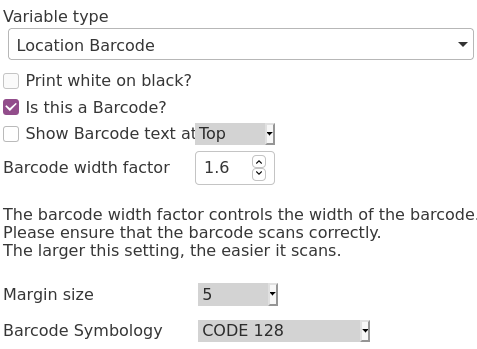
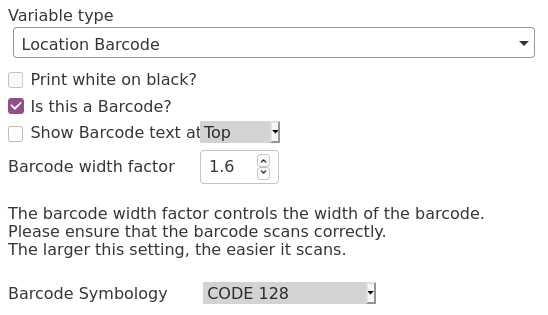
Undo resize of text, Remove barcode margin, avoid corrupting an image

Changed region(s): [[0.0, 0.0286, 1.0, 1.0]]

diff --git a/public/js/crossbeams-label-designer.js b/public/js/crossbeams-label-designer.js
@@ -260,7 +260,10 @@ const LabelDesigner = (function LabelDesigner() { // eslint-disable-line max-cla
 
   class LdImage extends LdShape {
     generate(opts = {}) {
-      // TODO: return null if no imagesrc...
+      // Do not add an image if the input is corrupt...
+      if (!opts.imageSource) {
+        return null;
+      }
       let startX;
       let startY;
       let startW;
@@ -611,7 +614,6 @@ const LabelDesigner = (function LabelDesigner() { // eslint-disable-line max-cla
         barcodeText: optAttrs.barcodeText || false,
         barcodeTop: optAttrs.barcodeTop || 'true',
         barcodeWidthFactor: optAttrs.barcodeWidthFactor || 1.5,
-        barcodeMargin: optAttrs.barcodeMargin || 5,
         barcodeSymbology: optAttrs.barcodeSymbology || 'CODE_128',
         staticValue: optAttrs.staticValue || null,
       };
@@ -720,6 +722,11 @@ const LabelDesigner = (function LabelDesigner() { // eslint-disable-line max-cla
 
   class LdText extends LdShape {
     generate(opts = {}) {
+      let startX;
+      let startY;
+      let startW;
+      let startH;
+
       this.shape = new Konva.Text({
         name: 'textBox',
         x: this.x,
@@ -750,6 +757,66 @@ const LabelDesigner = (function LabelDesigner() { // eslint-disable-line max-cla
           scaleY: 1,
         });
         ldState.changesMade = true;
+      });
+
+      this.shape.on('transformstart', () => {
+        startX = this.shape.x();
+        startY = this.shape.y();
+        startW = this.shape.width();
+        startH = this.shape.height();
+      });
+      this.shape.on('transformend', () => {
+        if (ldState.selectedMultiple.length > 0) {
+          return;
+        }
+        const change = {
+          x: Math.round(this.shape.x()) - Math.round(startX),
+          y: Math.round(this.shape.y()) - Math.round(startY),
+          width: Math.round(this.shape.width() - startW),
+          height: Math.round(this.shape.height() - startH),
+        };
+
+        UndoEngine.addCommand({
+          shapeId: this.shape._id, // eslint-disable-line no-underscore-dangle
+          action: 'resize',
+          current: change,
+          previous: {
+            x: change.x * -1,
+            y: change.y * -1,
+            width: change.width * -1,
+            height: change.height * -1,
+          },
+          executeUndo() {
+            const item = getShapeById(this.shapeId);
+
+            if (this.previous.x !== 0 || this.previous.y !== 0) {
+              item.move({ x: this.previous.x, y: this.previous.y });
+            }
+            if (this.previous.width !== 0) {
+              adjustWidth(item, this.previous.width);
+            }
+            if (this.previous.height !== 0) {
+              adjustHeight(item, this.previous.height);
+            }
+            ldState.stage.draw();
+            console.log('UNDO', this.shapeId, this.previous);
+          },
+          executeRedo() {
+            const item = getShapeById(this.shapeId);
+
+            if (this.current.x !== 0 || this.current.y !== 0) {
+              item.move({ x: this.current.x, y: this.current.y });
+            }
+            if (this.current.width !== 0) {
+              adjustWidth(item, this.current.width);
+            }
+            if (this.current.height !== 0) {
+              adjustHeight(item, this.current.height);
+            }
+            ldState.stage.draw();
+            console.log('REDO', this.shapeId, this.current);
+          },
+        });
       });
       return this.shape;
     }
@@ -880,7 +947,9 @@ const LabelDesigner = (function LabelDesigner() { // eslint-disable-line max-cla
       if (this.elem.name === 'image') {
         shape = new LdImage(this.elem.x + offset, this.elem.y + offset, this.elem.width, this.elem.height);
         item = shape.generate(this.elem);
-        ldState.layer.add(item);
+        if (item !== null) {
+          ldState.layer.add(item);
+        }
       }
       if (this.elem.name === 'rect') {
         shape = new LdRect(this.elem.x + offset, this.elem.y + offset, this.elem.width, this.elem.height);
@@ -1432,7 +1501,6 @@ const LabelDesigner = (function LabelDesigner() { // eslint-disable-line max-cla
       barcodeText: document.querySelector('#barcode_text'),
       barcodeTop: document.querySelector('#barcode_top'),
       barcodeWidthFactor: document.querySelector('#barcode_width_factor'),
-      barcodeMargin: document.querySelector('#barcode_margin'),
     };
 
     // Listen for change of text input and update Text of Variable contents
@@ -1927,7 +1995,6 @@ const LabelDesigner = (function LabelDesigner() { // eslint-disable-line max-cla
       barcodeText: ldState.variableUI.barcodeText.checked,
       barcodeTop: ldState.variableUI.barcodeTop.value,
       barcodeWidthFactor: ldState.variableUI.barcodeWidthFactor.value,
-      barcodeMargin: ldState.variableUI.barcodeMargin.value,
       barcodeSymbology: ldState.variableUI.barcodeSymbology.value,
       staticValue: variableTypeValue === 'Static Barcode' ? ldState.variableUI.staticInputValue.value : null,
     };
@@ -2196,7 +2263,6 @@ const LabelDesigner = (function LabelDesigner() { // eslint-disable-line max-cla
     ldState.variableUI.barcodeText.checked = curr.barcodeText;
     ldState.variableUI.barcodeTop.value = curr.barcodeTop;
     ldState.variableUI.barcodeWidthFactor.value = curr.barcodeWidthFactor;
-    ldState.variableUI.barcodeMargin.value = curr.barcodeMargin;
     ldState.variableUI.barcodeSymbology.value = curr.barcodeSymbology;
     ldState.variableUI.staticInputValue.value = curr.staticValue ? curr.staticValue : '';
 
@@ -3225,7 +3291,6 @@ const LabelDesigner = (function LabelDesigner() { // eslint-disable-line max-cla
           barcodeText: shape.attrs.showBarcodeText === 'true',
           barcodeTop: shape.attrs.barcodeTop,
           barcodeWidthFactor: Number(shape.attrs.barcodeWidthFactor),
-          barcodeMargin: Number(shape.attrs.barcodeMargin),
           barcodeSymbology: shape.attrs.barcodeSymbology,
           staticValue: shape.attrs.staticValue || null,
         };
